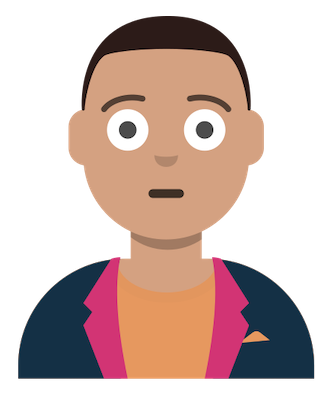
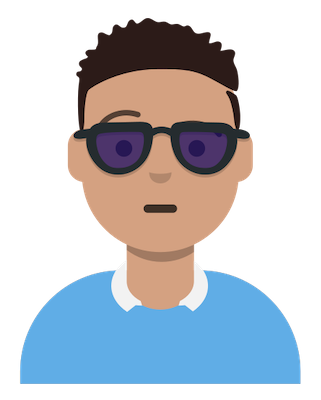
AQ-387: Add unique images for each trade frequency

diff --git a/src/constants/CreateInvestorConstants.js b/src/constants/CreateInvestorConstants.js
@@ -42,36 +42,42 @@ export const PERIOD_LIST = [
     value: "30_min",
     name: "High Frequency Day Trader",
     description: "The Day Trader does trades in the day",
+    imageId: 0,
     id: "PERIOD_30_MIN",
   },
   {
     value: "1_hr",
     name: "Low Frequency Day Trader",
     description: "The Hour Trader does trades in the hour",
+    imageId: 1,
     id: "PERIOD_1_HR",
   },
   {
     value: "4_hr",
     name: "High Frequency Swing Trader",
     description: "The Day Trader does trades in the day",
+    imageId: 2,
     id: "PERIOD_4_HR",
   },
   {
     value: "1_day",
     name: "Low Frequency Swing Trader",
     description: "The Day Trader does trades in the day",
+    imageId: 3,
     id: "PERIOD_1_DAY",
   },
   {
     value: "1_wk",
     name: "High Frequency Long Trader",
     description: "The Day Trader does trades in the day",
+    imageId: 4,
     id: "PERIOD_1_WK",
   },
   {
     value: "1_mo",
     name: "Low Frequency Long Trader",
     description: "The Day Trader does trades in the day",
+    imageId: 5,
     id: "PERIOD_1_MO",
   },
 ];

diff --git a/src/constants/InvestorImagePaths.js b/src/constants/InvestorImagePaths.js
@@ -1,5 +1,9 @@
 // Current solution for making the images dynamic
 export const investorImagePathList = [
+  require("../../assets/investor_avatars/avatar0.png"),
   require("../../assets/investor_avatars/avatar1.png"),
   require("../../assets/investor_avatars/avatar2.png"),
+  require("../../assets/investor_avatars/avatar3.png"),
+  require("../../assets/investor_avatars/avatar4.png"),
+  require("../../assets/investor_avatars/avatar5.png"),
 ];

diff --git a/src/components/reusable_components/InvestorTradeFrequencyCarousel.js b/src/components/reusable_components/InvestorTradeFrequencyCarousel.js
@@ -39,7 +39,7 @@ export default function InvestorTradeFrequencyCarousel(props) {
             <View style={styles.investorImageContainer}>
               <Image
                 style={styles.investorImage}
-                source={investorImagePathList[1]}
+                source={investorImagePathList[item.imageId]}
               />
             </View>
             <View style={styles.tradeFrequencyDescriptionContainer}>
